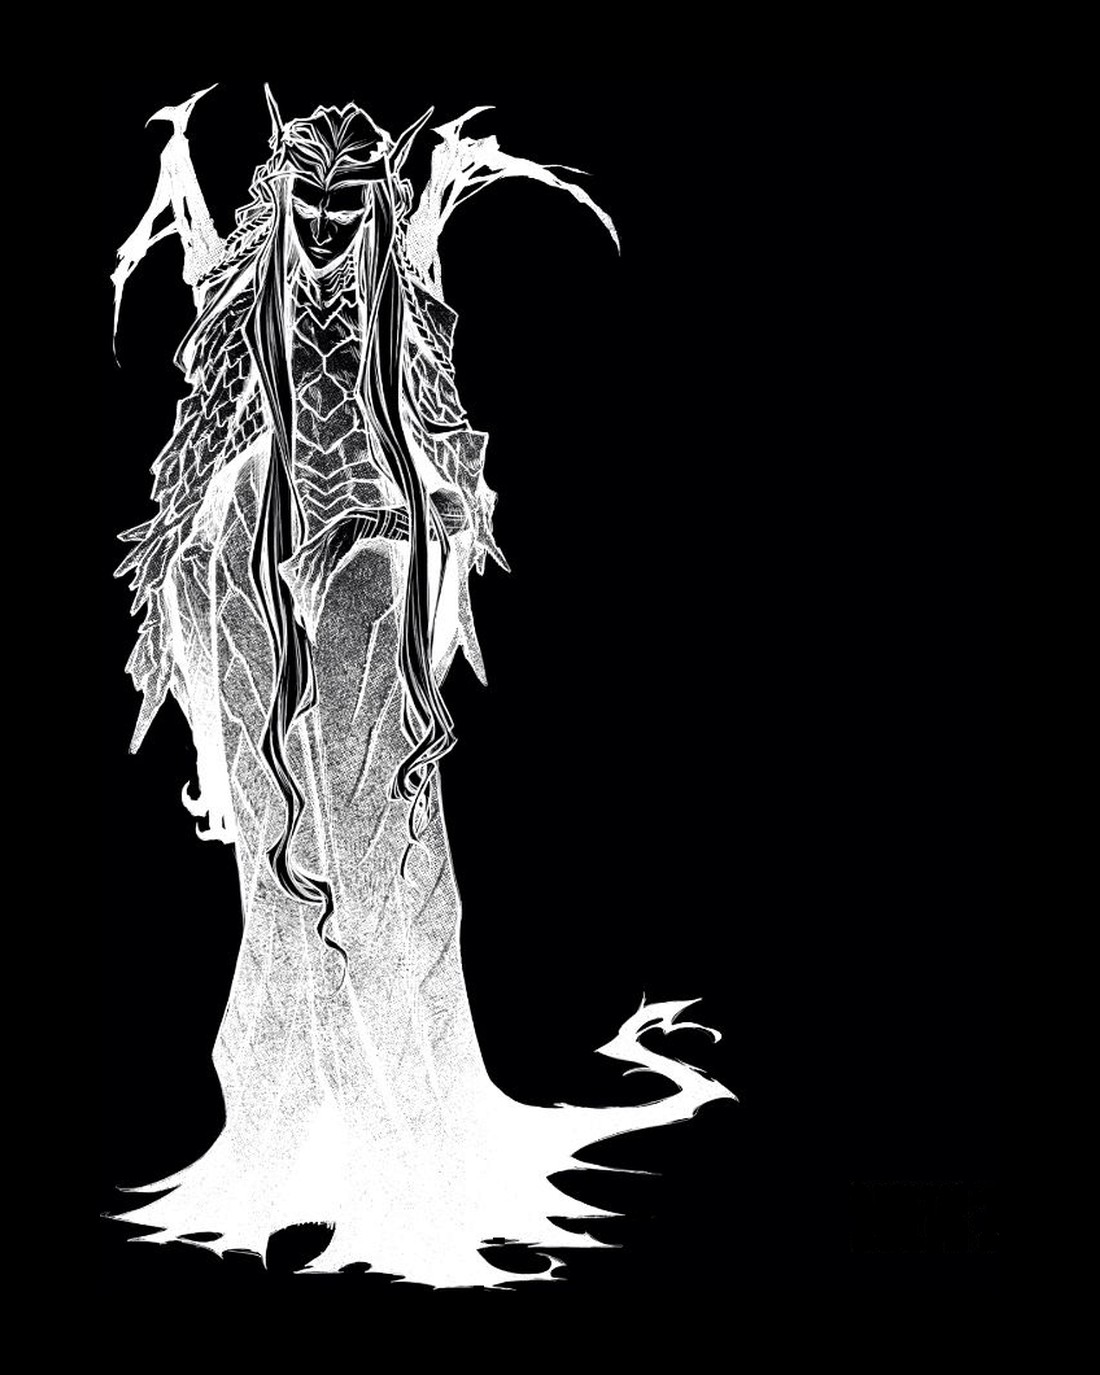
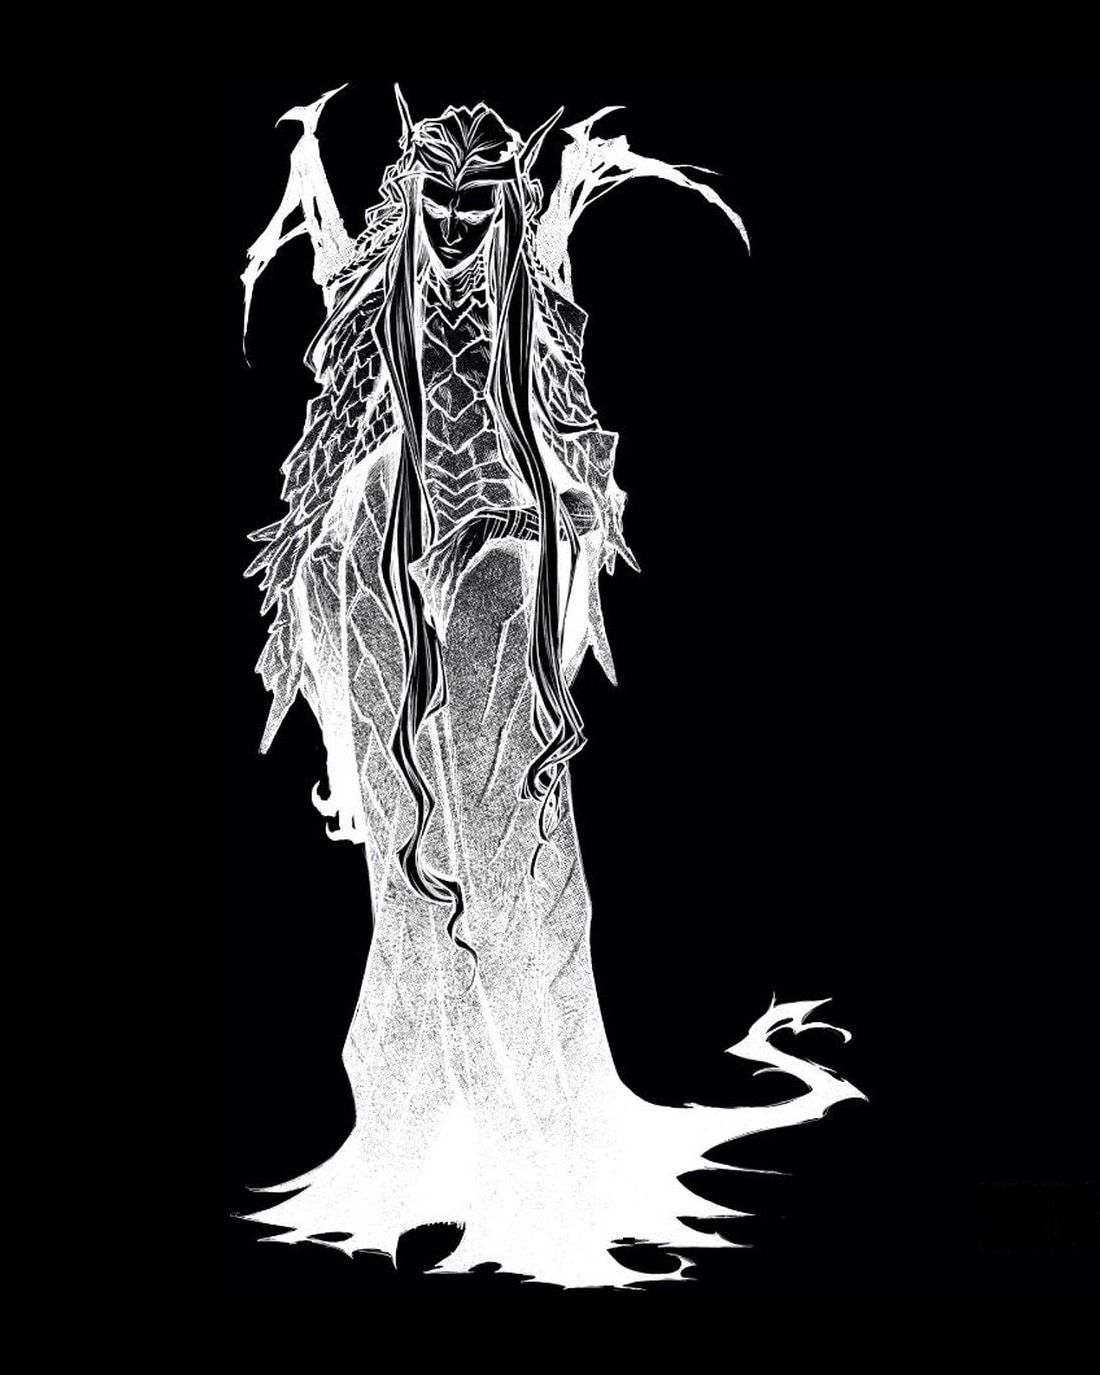
Título completo do yomikiri, X e Facebook no ar, e o Helel volta ao centro do card
TÍTULO DO YOMIKIRI, agora com a marca junto, nos três idiomas publicados:

  PT  Mukō-Gawa: Por isso Lutamos     (era "Por Isso Lutamos")
  EN  Mukō-Gawa: Why We Fight         (era "This Is Why We Fight")
  JA  Mukō-Gawa: Tatakau Riyū         (era 我らが戦う理由)

Aplicado onde o título aparece SOZINHO -- capa da loja e ficha técnica da
imprensa. Nos dois lugares em que a frase já dizia "Mukō-Gawa", o título inteiro
diria a marca duas vezes na mesma linha, então:

  - a linha de crédito segue a convenção MARCA + capítulo: MUKŌ-GAWA (向こう側)
    "Por isso Lutamos". Só o subtítulo mudou.
  - a resposta do FAQ foi reescrita de "O DE MUKŌ-GAWA se chama X" para "O NOSSO
    se chama Mukō-Gawa: Por isso Lutamos", e assim cabe o título completo.

Nota sobre o japonês: o título deixou de ser 我らが戦う理由 e passou a ser romaji,
por decisão do autor. Fica registrado que a página japonesa agora nomeia a obra
em alfabeto latino, o que é incomum para leitor japonês -- se um dia quiser a
forma em kanji de volta, o texto anterior está neste commit.

X E FACEBOOK ACESOS. Os dois emblemas eram lugar reservado desde a v1; agora têm
URL e viraram link sozinhos, sem tocar no componente -- que é exatamente o que o
`href: null` do config/site.ts existe para permitir. Nenhum "em breve" restou no
rodapé: os quatro estão vivos com o Discord.

O HELEL VOLTA AO CENTRO. O Bruno viu de olho e a medição confirmou. Medi o
enquadramento das ONZE artes, achando o retângulo do traço em cada arquivo:
[…]

Changed region(s): [[0.0927, 0.0611, 0.7727, 0.9469]]

diff --git a/src/i18n/conteudo/imprensa.ts b/src/i18n/conteudo/imprensa.ts
@@ -69,7 +69,7 @@ export const IMPRENSA: Record<Idioma, ConteudoImprensa> = {
     fichaTitulo: "Ficha técnica",
     ficha: [
       { rotulo: "Título", valor: "Mukō-Gawa (向こう側)" },
-      { rotulo: "Yomikiri", valor: "Por Isso Lutamos" },
+      { rotulo: "Yomikiri", valor: "Mukō-Gawa: Por isso Lutamos" },
       { rotulo: "Criador e roteirista", valor: "Israel Subira" },
       { rotulo: "Arte conceitual", valor: "Daniel Bretas" },
       { rotulo: "Arte do mangá", valor: "Guilherme Match" },
@@ -125,7 +125,7 @@ export const IMPRENSA: Record<Idioma, ConteudoImprensa> = {
 
     creditoTitulo: "Como creditar",
     creditoLead: "Linha pronta para copiar:",
-    creditoLinha: 'MUKŌ-GAWA (向こう側) "Por Isso Lutamos", de Israel Subira e Guilherme Match. © 2026 Israel Subira. Todos os direitos reservados.',
+    creditoLinha: 'MUKŌ-GAWA (向こう側) "Por isso Lutamos", de Israel Subira e Guilherme Match. © 2026 Israel Subira. Todos os direitos reservados.',
 
     contatoTitulo: "Falar com a assessoria",
     contatoTexto: "Entrevistas, exemplares para resenha, material que não está aqui ou qualquer outra coisa: escreva e nós respondemos.",
@@ -141,7 +141,7 @@ export const IMPRENSA: Record<Idioma, ConteudoImprensa> = {
     fichaTitulo: "Fact sheet",
     ficha: [
       { rotulo: "Title", valor: "Mukō-Gawa (向こう側)" },
-      { rotulo: "Yomikiri", valor: "This Is Why We Fight" },
+      { rotulo: "Yomikiri", valor: "Mukō-Gawa: Why We Fight" },
       { rotulo: "Creator and writer", valor: "Israel Subira" },
       { rotulo: "Concept art", valor: "Daniel Bretas" },
       { rotulo: "Manga art", valor: "Guilherme Match" },
@@ -197,7 +197,7 @@ export const IMPRENSA: Record<Idioma, ConteudoImprensa> = {
 
     creditoTitulo: "How to credit",
     creditoLead: "Ready to copy:",
-    creditoLinha: 'MUKŌ-GAWA (向こう側) "This Is Why We Fight" by Israel Subira & Guilherme Match. © 2026 Israel Subira. All rights reserved.',
+    creditoLinha: 'MUKŌ-GAWA (向こう側) "Why We Fight" by Israel Subira & Guilherme Match. © 2026 Israel Subira. All rights reserved.',
 
     contatoTitulo: "Contact press",
     contatoTexto: "Interviews, review copies, material that is not here, or anything else: write to us and we will answer.",
@@ -213,7 +213,7 @@ export const IMPRENSA: Record<Idioma, ConteudoImprensa> = {
     fichaTitulo: "Ficha técnica",
     ficha: [
       { rotulo: "Título", valor: "Mukō-Gawa (向こう側)" },
-      { rotulo: "Yomikiri", valor: "Por Eso Luchamos" },
+      { rotulo: "Yomikiri", valor: "Mukō-Gawa: Por Eso Luchamos" },
       { rotulo: "Creador y guionista", valor: "Israel Subira" },
       { rotulo: "Arte conceptual", valor: "Daniel Bretas" },
       { rotulo: "Arte del manga", valor: "Guilherme Match" },
@@ -285,7 +285,7 @@ export const IMPRENSA: Record<Idioma, ConteudoImprensa> = {
     fichaTitulo: "作品情報",
     ficha: [
       { rotulo: "題名", valor: "『向こう側』" },
-      { rotulo: "読み切り", valor: "我らが戦う理由" },
+      { rotulo: "読み切り", valor: "Mukō-Gawa: Tatakau Riyū" },
       { rotulo: "原作・脚本", valor: "イスラエル・スビラ" },
       { rotulo: "コンセプトアート", valor: "ダニエル・ブレタス" },
       { rotulo: "漫画作画", valor: "ギリェルメ・マッチ" },
@@ -341,7 +341,7 @@ export const IMPRENSA: Record<Idioma, ConteudoImprensa> = {
 
     creditoTitulo: "クレジット表記",
     creditoLead: "そのままお使いいただけます：",
-    creditoLinha: 'MUKŌ-GAWA（向こう側）「我らが戦う理由」イスラエル・スビラ、ギリェルメ・マッチ © 2026 Israel Subira. All rights reserved.',
+    creditoLinha: 'MUKŌ-GAWA（向こう側）「Tatakau Riyū」イスラエル・スビラ、ギリェルメ・マッチ © 2026 Israel Subira. All rights reserved.',
 
     contatoTitulo: "お問い合わせ",
     contatoTexto: "取材、献本、ここにない資料など、どのようなご用件でもご連絡ください。",

diff --git a/src/i18n/conteudo/faq.ts b/src/i18n/conteudo/faq.ts
@@ -120,7 +120,7 @@ const gruposPt: Grupo[] = [
         p: "O que é um yomikiri?",
         r: [
           "É um capítulo avulso, fechado em si mesmo, publicado antes da série regular. Em mangá, ele funciona como piloto: apresenta o mundo, o traço e o tom sem exigir que o leitor tenha acompanhado nada antes.",
-          "O de Mukō-Gawa se chama <b>Por Isso Lutamos</b> e é a primeira publicação da série. O volume 1 do mangá vem depois dele.",
+          "O nosso se chama <b>Mukō-Gawa: Por isso Lutamos</b> e é a primeira publicação da série. O volume 1 do mangá vem depois dele.",
           "Na cronologia da história ele fica entre <b>Protogenesis</b> e a Primeira Temporada, e é <b>leitura opcional</b>: quem pular não fica com buraco nenhum.",
         ],
       },
@@ -314,7 +314,7 @@ const gruposEn: Grupo[] = [
         p: "What is a yomikiri?",
         r: [
           "It is a standalone chapter, complete in itself, published ahead of the regular series. In manga it works as a pilot: it introduces the world, the art and the tone without asking the reader to have followed anything before it.",
-          "The Mukō-Gawa one is called <b>This Is Why We Fight</b>, and it is the first publication in the series. Volume 1 of the manga follows it.",
+          "Ours is called <b>Mukō-Gawa: Why We Fight</b>, and it is the first publication in the series. Volume 1 of the manga follows it.",
           "Within the story it sits between <b>Protogenesis</b> and Season One, and it is <b>optional reading</b>: skipping it leaves no gap.",
         ],
       },
@@ -517,7 +517,7 @@ const gruposJa: Grupo[] = [
         p: "読み切りとは何ですか。",
         r: [
           "本編の連載に先立って発表される、一話完結の作品です。世界観と絵と語り口を、前提知識なしに読者へ差し出す入口にあたります。",
-          "『向こう側』の読み切りは<b>我らが戦う理由</b>。シリーズ最初の刊行物であり、漫画第1巻はその後に続きます。",
+          "本作の読み切りは<b>Mukō-Gawa: Tatakau Riyū</b>。シリーズ最初の刊行物であり、漫画第1巻はその後に続きます。",
           "物語の時系列では<b>Protogenesis</b>と第一シーズンのあいだに位置し、<b>読まなくても支障はありません</b>。",
         ],
       },

diff --git a/src/i18n/conteudo/loja.ts b/src/i18n/conteudo/loja.ts
@@ -35,7 +35,7 @@ interface ConteudoLoja {
 export const LOJA: Record<Idioma, ConteudoLoja> = {
   pt: {
     capaRotulo: "Yomikiri // Capa",
-    capaTitulo: "Por Isso Lutamos",
+    capaTitulo: "Mukō-Gawa: Por isso Lutamos",
     capaTexto: "A capa do yomikiri, com arte de Guilherme Match. É por ela que a obra chega às mãos de quem ainda não conhece o mundo.",
     capaAlt: "Capa do yomikiri de Mukō-Gawa: um guerreiro alado de armadura, empunhando uma lâmina, sobre fundo vermelho",
     titulo: "Loja",
@@ -61,7 +61,7 @@ export const LOJA: Record<Idioma, ConteudoLoja> = {
 
   en: {
     capaRotulo: "Yomikiri // Cover",
-    capaTitulo: "This Is Why We Fight",
+    capaTitulo: "Mukō-Gawa: Why We Fight",
     capaTexto: "The cover of the yomikiri, with art by Guilherme Match. It is how the work reaches the hands of someone who does not yet know this world.",
     capaAlt: "Cover of the Mukō-Gawa yomikiri: a winged warrior in armour, blade drawn, against a red field",
     titulo: "Shop",
@@ -88,7 +88,7 @@ export const LOJA: Record<Idioma, ConteudoLoja> = {
   // Traduzido do PT-BR. Pendente de revisão por falante nativo.
   es: {
     capaRotulo: "Yomikiri // Portada",
-    capaTitulo: "Por Eso Luchamos",
+    capaTitulo: "Mukō-Gawa: Por Eso Luchamos",
     capaTexto: "La portada del yomikiri, con arte de Guilherme Match. Es por ella que la obra llega a las manos de quien aún no conoce este mundo.",
     capaAlt: "Portada del yomikiri de Mukō-Gawa: un guerrero alado con armadura, espada en mano, sobre fondo rojo",
     titulo: "Tienda",
@@ -115,7 +115,7 @@ export const LOJA: Record<Idioma, ConteudoLoja> = {
   // Base: site modelo. Pendente de revisão.
   ja: {
     capaRotulo: "読み切り // 表紙",
-    capaTitulo: "我らが戦う理由",
+    capaTitulo: "Mukō-Gawa: Tatakau Riyū",
     capaTexto: "読み切りの表紙。作画はギリェルミ・マッチ。まだこの世界を知らない読者の手に、作品が最初に届く姿である。",
     capaAlt: "『向こう側』読み切りの表紙：赤を背に、刃を携えた翼ある鎧の戦士",
     titulo: "ショップ",

diff --git a/src/config/site.ts b/src/config/site.ts
@@ -21,8 +21,8 @@ export interface Rede {
 
 export const REDES: Rede[] = [
   { nome: "Instagram", icone: "instagram", href: "https://www.instagram.com/mukogawaverse/" },
-  { nome: "X",         icone: "x",         href: null },
-  { nome: "Facebook",  icone: "facebook",  href: null },
+  { nome: "X",         icone: "x",         href: "https://x.com/mukogawaverse" },
+  { nome: "Facebook",  icone: "facebook",  href: "https://facebook.com/mukogawaverse" },
   // Convite permanente: sem limite de usos e sem data de expiração.
   { nome: "Discord",   icone: "discord",   href: "https://discord.gg/HmtB2ubPe2" },
 ];
